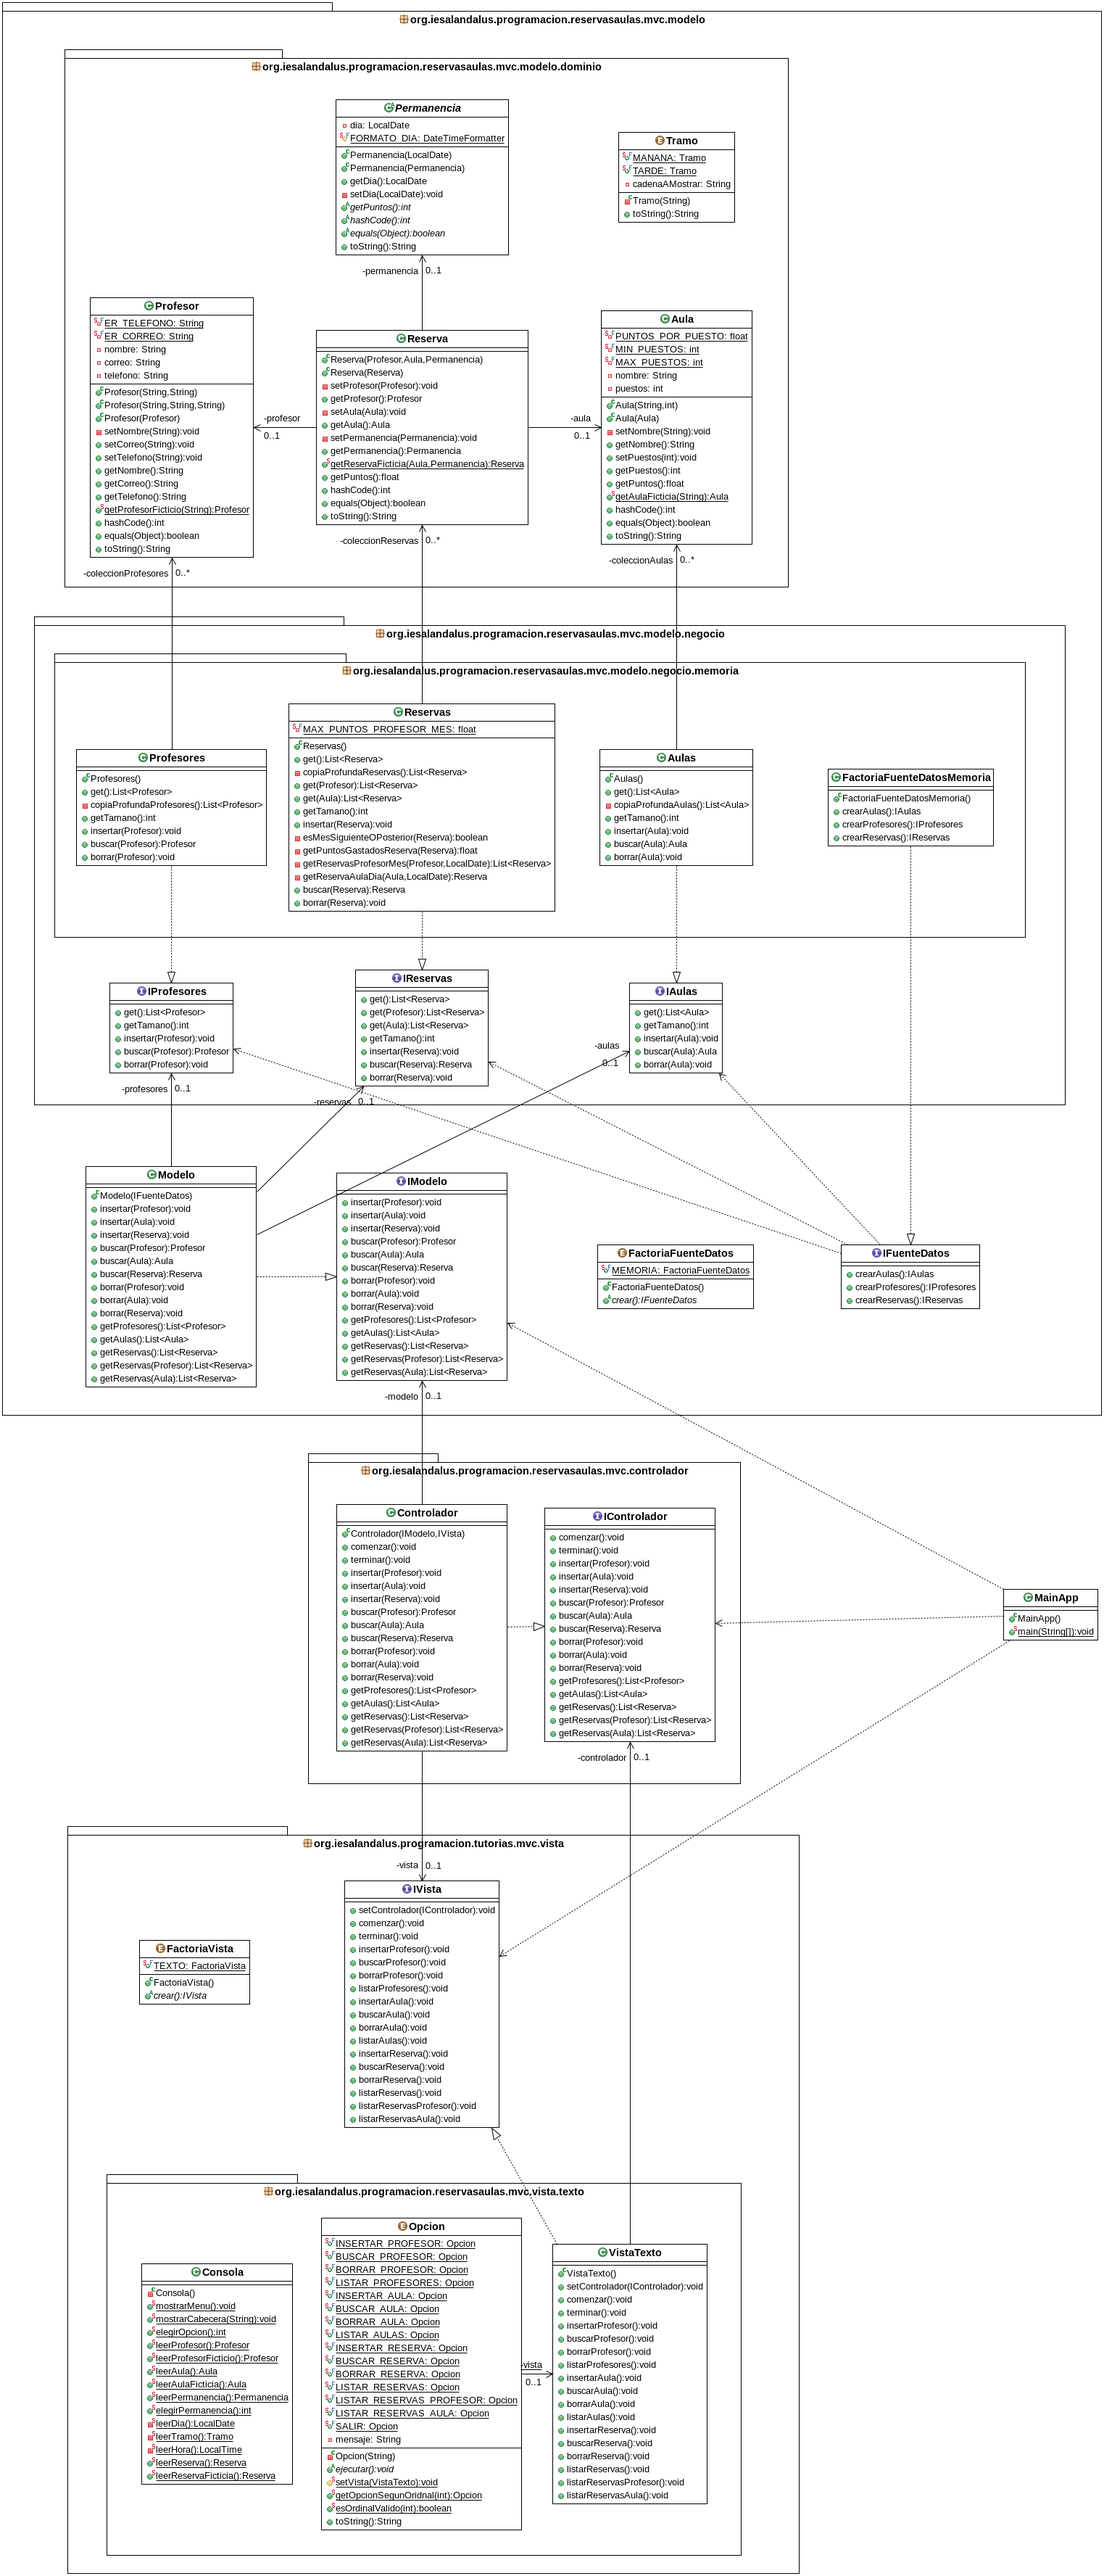
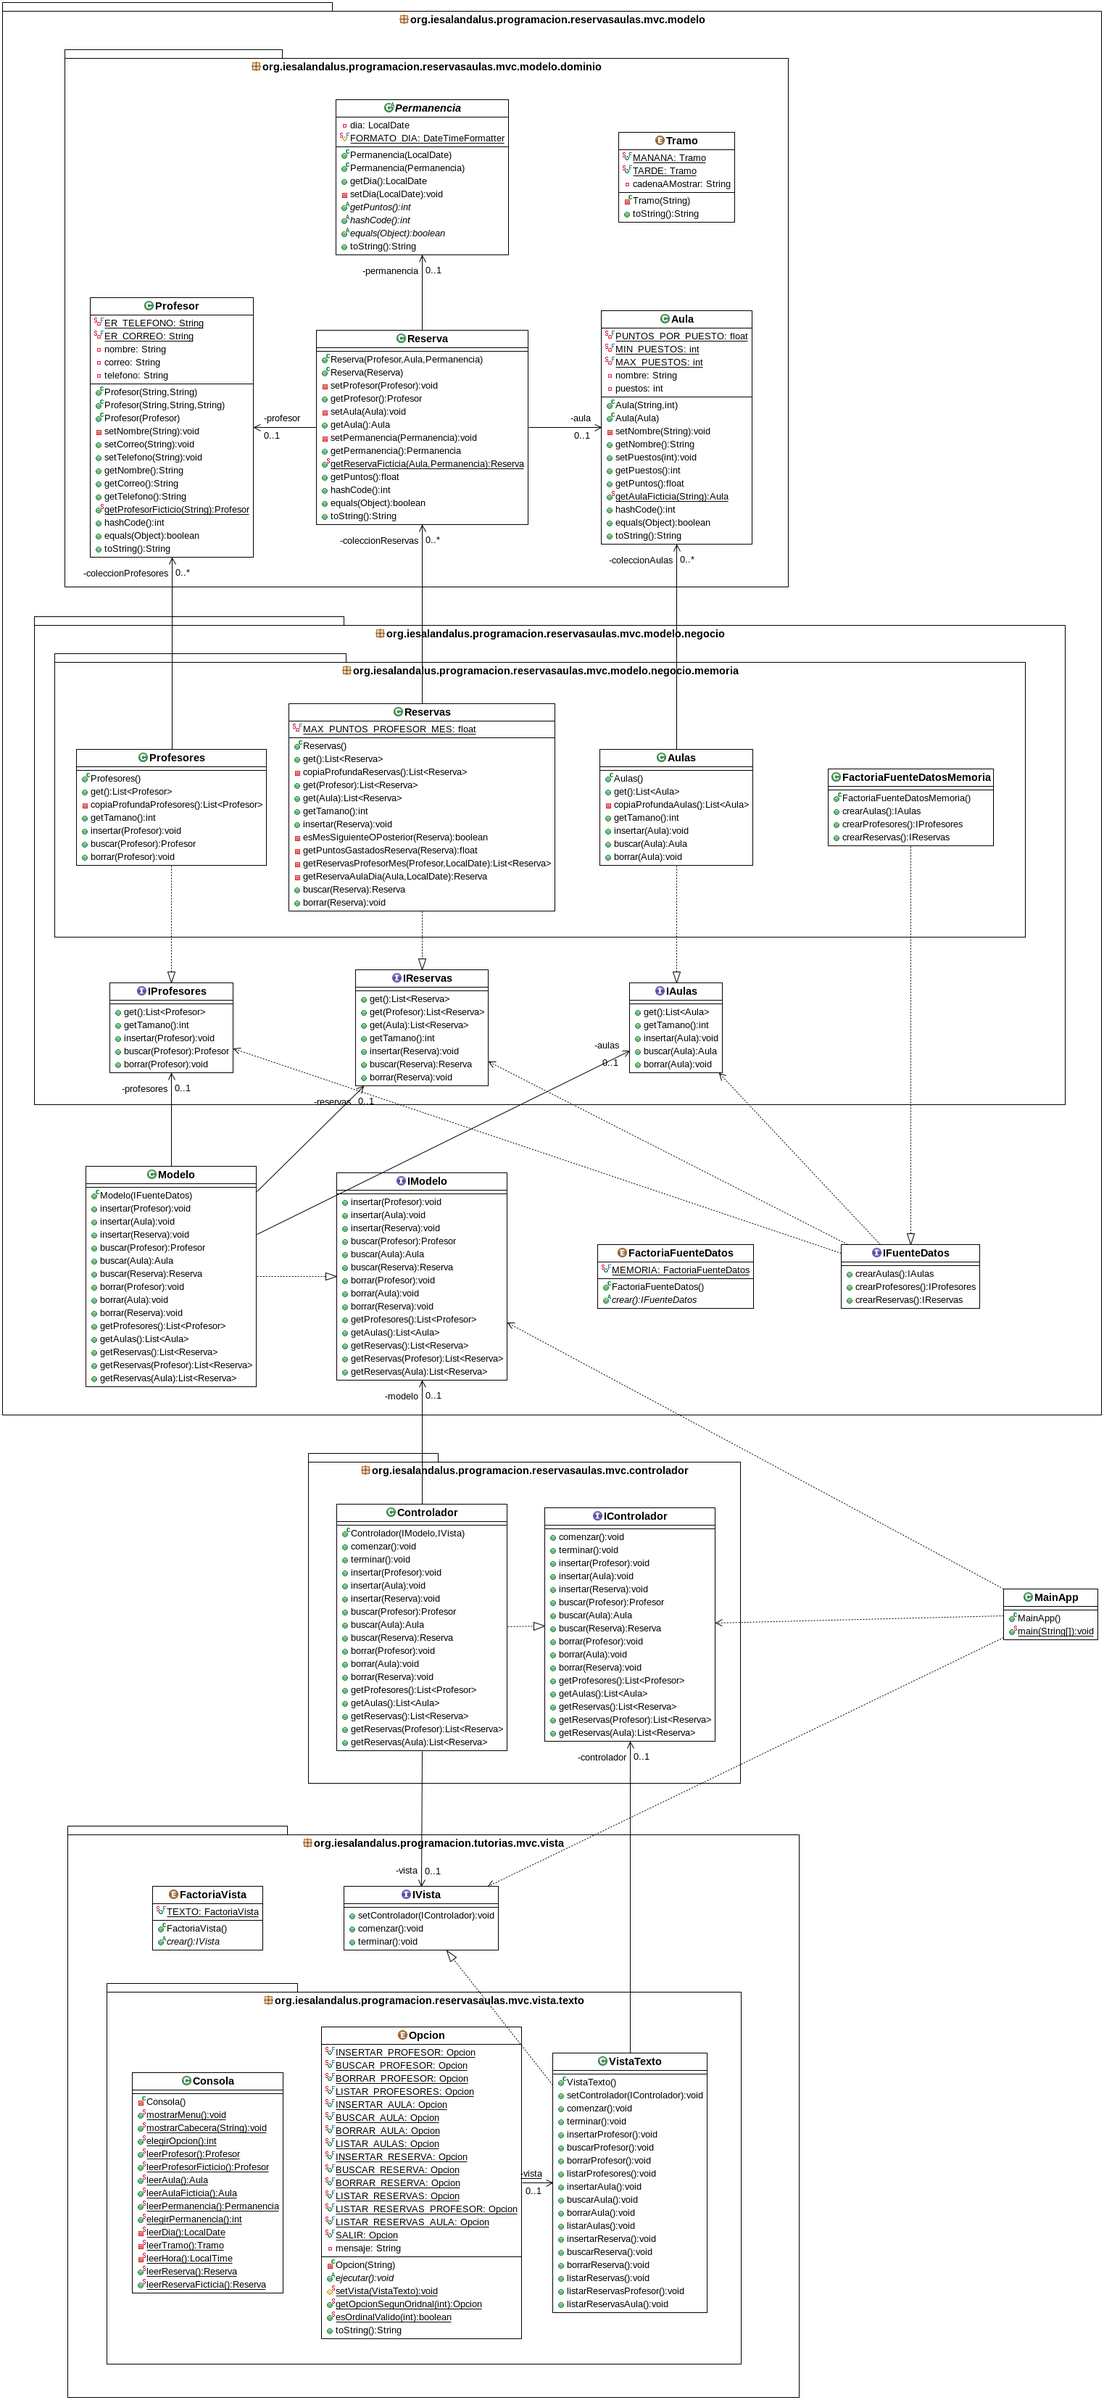
Eliminación de métodos innecesarios en la interfaz vista.

diff --git a/src/main/java/org/iesalandalus/programacion/reservasaulas/mvc/vista/texto/VistaTexto.java b/src/main/java/org/iesalandalus/programacion/reservasaulas/mvc/vista/texto/VistaTexto.java
@@ -41,7 +41,6 @@ public class VistaTexto implements IVista {
 		controlador.terminar();
 	}
 	
-	@Override
 	public void insertarProfesor() {
 		Consola.mostrarCabecera("Insertar Profesor");
 		try {
@@ -52,7 +51,6 @@ public class VistaTexto implements IVista {
 		}
 	}
 	
-	@Override
 	public void buscarProfesor() {
 		Consola.mostrarCabecera("Buscar Profesor");
 		Profesor profesor;
@@ -65,7 +63,6 @@ public class VistaTexto implements IVista {
 		}
 	}
 	
-	@Override
 	public void borrarProfesor() {
 		Consola.mostrarCabecera("Borrar Profesor");
 		try {
@@ -76,7 +73,6 @@ public class VistaTexto implements IVista {
 		}
 	}
 	
-	@Override
 	public void listarProfesores() {
 		Consola.mostrarCabecera("Listado de Profesores");
 		List<Profesor> profesores = controlador.getProfesores();
@@ -90,7 +86,6 @@ public class VistaTexto implements IVista {
 		}
 	}
 	
-	@Override
 	public void insertarAula() {
 		Consola.mostrarCabecera("Insertar Aula");
 		try {
@@ -101,7 +96,6 @@ public class VistaTexto implements IVista {
 		}
 	}
 	
-	@Override
 	public void buscarAula() {
 		Consola.mostrarCabecera("Buscar Aula");
 		Aula aula;
@@ -114,7 +108,6 @@ public class VistaTexto implements IVista {
 		}
 	}
 	
-	@Override
 	public void borrarAula() {
 		Consola.mostrarCabecera("Borrar Aula");
 		try {
@@ -125,7 +118,6 @@ public class VistaTexto implements IVista {
 		}
 	}
 	
-	@Override
 	public void listarAulas() {
 		Consola.mostrarCabecera("Listado de Aulas");
 		List<Aula> aulas = controlador.getAulas();
@@ -139,7 +131,6 @@ public class VistaTexto implements IVista {
 		}
 	}
 	
-	@Override
 	public void insertarReserva() {
 		Consola.mostrarCabecera("Insertar Reserva");
 		try {
@@ -151,7 +142,6 @@ public class VistaTexto implements IVista {
 		}
 	}
 	
-	@Override
 	public void buscarReserva() {
 		Consola.mostrarCabecera("Buscar Reserva");
 		Reserva reserva;
@@ -164,7 +154,6 @@ public class VistaTexto implements IVista {
 		}
 	}
 	
-	@Override
 	public void borrarReserva() {
 		Consola.mostrarCabecera("Borrar Reserva");
 		try {
@@ -175,7 +164,6 @@ public class VistaTexto implements IVista {
 		}
 	}
 	
-	@Override
 	public void listarReservas() {
 		Consola.mostrarCabecera("Listado de Reservas");
 		List<Reserva> reservas = controlador.getReservas();
@@ -189,7 +177,6 @@ public class VistaTexto implements IVista {
 		}
 	}
 	
-	@Override
 	public void listarReservasProfesor() {
 		Consola.mostrarCabecera("Listado de Reservas por Profesor");
 		List<Reserva> reservas = controlador.getReservas(Consola.leerProfesorFicticio());
@@ -203,7 +190,6 @@ public class VistaTexto implements IVista {
 		}
 	}
 	
-	@Override
 	public void listarReservasAula() {
 		Consola.mostrarCabecera("Listado de Reservas por Aula");
 		List<Reserva> reservas = controlador.getReservas(Consola.leerAula());

diff --git a/src/main/java/org/iesalandalus/programacion/reservasaulas/mvc/vista/IVista.java b/src/main/java/org/iesalandalus/programacion/reservasaulas/mvc/vista/IVista.java
@@ -10,32 +10,4 @@ public interface IVista {
 
 	void terminar();
 
-	void insertarProfesor();
-
-	void buscarProfesor();
-
-	void borrarProfesor();
-
-	void listarProfesores();
-
-	void insertarAula();
-
-	void buscarAula();
-
-	void borrarAula();
-
-	void listarAulas();
-
-	void insertarReserva();
-
-	void buscarReserva();
-
-	void borrarReserva();
-
-	void listarReservas();
-
-	void listarReservasProfesor();
-
-	void listarReservasAula();
-
 }
